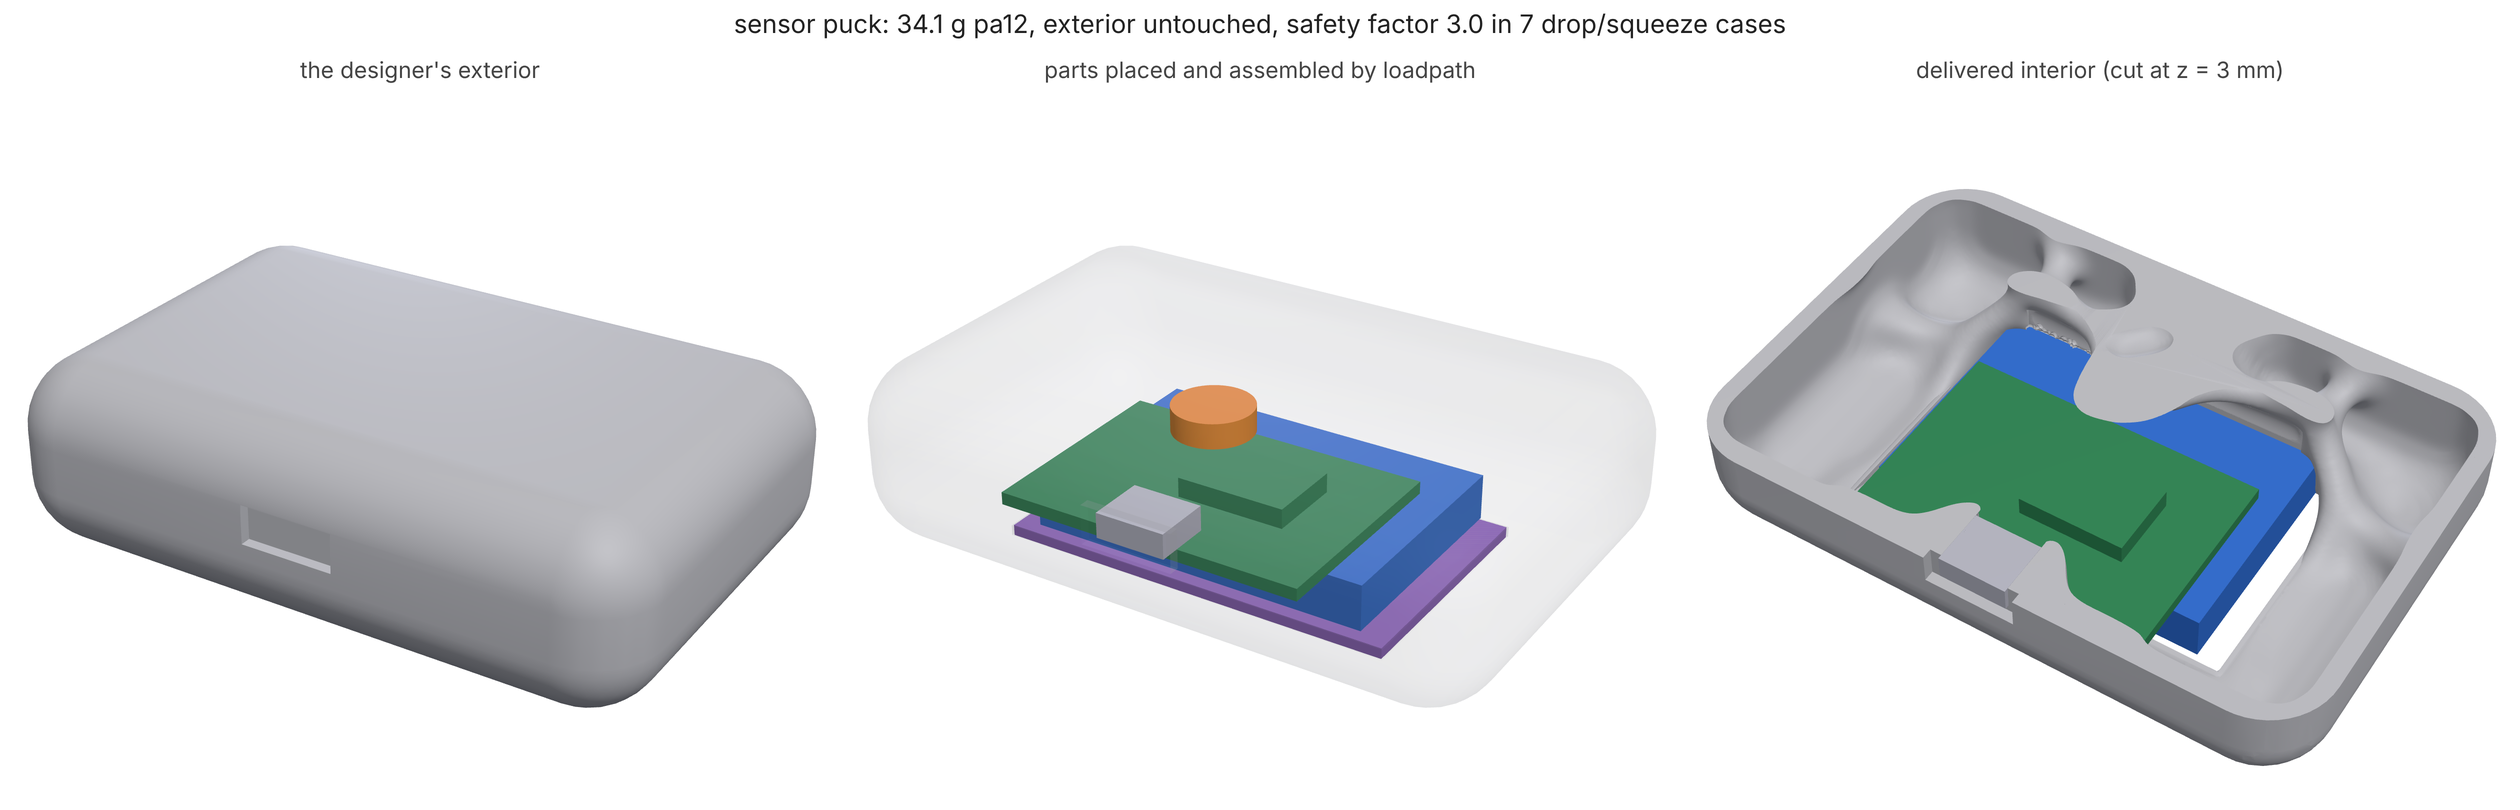
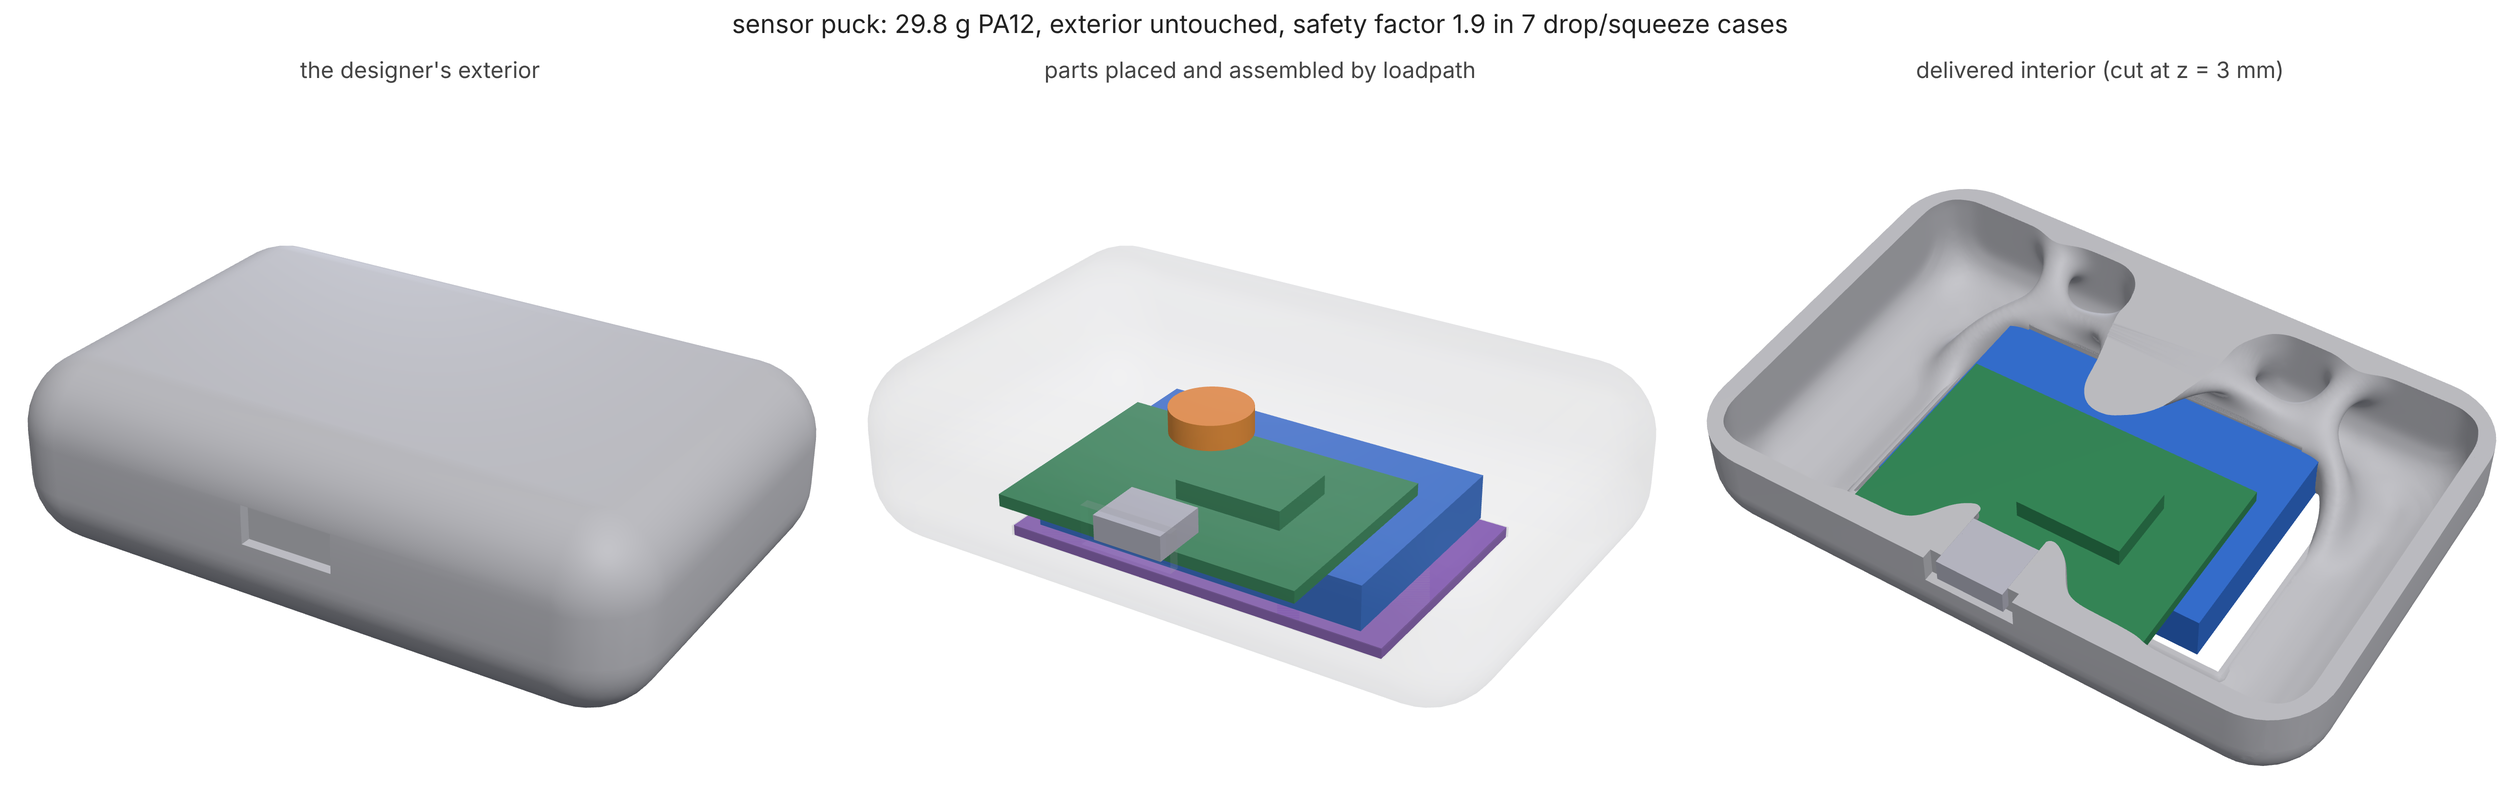
Enclosure docs: puck redesigned with the exact recess, checked on cut cells and tets
The USB-C now sits 0.31 mm back of the outer surface (0.3 asked); the
interior came out at 29.8 g PA12 (was 34.2 g), exterior 0.0 mm proud and
100% present, watertight, safety factor 1.9 on 130k cut cells and 4.2 on
567k 10-node tets against a goal of 1.5. examples/enclosure/tets.py runs
the tet re-check.

Claude-Session: https://claude.ai/code/session_01HFwANYaV5TaRui5ZhUpFuv

diff --git a/examples/enclosure/tets.py b/examples/enclosure/tets.py
@@ -1,0 +1,34 @@
+"""
+Re-check a delivered part on 10-node tets (crosscheck.py: fTetWild volume
+mesh, an independent solver from the cut-cell verify), every load case.
+
+    python examples/enclosure/tets.py out/enclosure
+"""
+from __future__ import annotations
+
+import json
+import os
+import sys
+
+HERE = os.path.dirname(os.path.abspath(__file__))
+sys.path.insert(0, os.path.join(HERE, "..", ".."))
+
+
+def main(argv=None):
+    import trimesh
+
+    from loadpath.crosscheck import crosscheck
+    from loadpath.spec import study_from_dict
+    d = (argv or sys.argv[1:])[0]
+    sp = [f for f in os.listdir(d) if f.endswith(".study.json")][0]
+    st = study_from_dict(json.load(open(os.path.join(d, sp))), base_dir=os.path.abspath(d))
+    part = os.path.basename(json.load(open(os.path.join(d, "checks.json")))["part"])
+    r = crosscheck(st, trimesh.load(os.path.join(d, "design", part), force="mesh"))
+    out = {k: r.get(k) for k in ("safetyFactor", "nodes", "elements", "seconds", "mesher", "backend")}
+    out["cases"] = [{k: c.get(k) for k in ("name", "peakStress", "safetyFactor", "deflection")} for c in r["cases"]]
+    json.dump(out, open(os.path.join(d, "tets.json"), "w"), indent=1, default=float)
+    print(json.dumps(out, default=float))
+
+
+if __name__ == "__main__":
+    main()

diff --git a/docs/ENCLOSURE.md b/docs/ENCLOSURE.md
@@ -140,9 +140,10 @@ Nothing about where the parts go is in the brief beyond the rules. On
 minutes:
 
 - **The board and its USB-C connector** turned so the connector's face
-  points out of the port and sits on the port's axis, 0.8 mm short of the
-  outer surface. The brief asked for 0.3 mm; the board's edge stops on
-  the rim around the mouth first.
+  points out of the port and sits on the port's axis, 0.31 mm short of the
+  outer surface (0.3 asked). The recess is the face's own stand-off; the
+  rest of the part keeps its margin from the walls, which the brief sets
+  to 0.3 mm for the board (0.5 elsewhere).
 - **The battery** went on the floor, straight over the door.
 - **The motor** went up against the ceiling, 0.5 mm under the skin and
   directly over the board (4.7 mm above it), so its wires stay short.
@@ -152,36 +153,39 @@ battery, door):
 
 - The motor and the battery drop straight in through the door.
 - The board, with the connector soldered on, comes out the way it went
-  in. It slides 11.3 mm along +y to free the connector from the port, then
-  drops out through the door. Its turn sits mid-way between the lengths
-  that clear both rims.
+  in. It slides 11.85 mm along +y to free the connector from the port,
+  then drops out through the door. Its turn sits mid-way between the
+  lengths that clear both rims.
 
 Every path is swept as a keep-out, and no keep-out overlaps the skin by any
 amount (`pathsIntoSkin` 0.0 mm³ for each part). The cradles went under the
 board (-y), the battery (+y) and the motor (+z).
 
 `run` then designed the interior for six 300 g drops, one onto each face,
-and a 150 N squeeze across the width. It delivered 43.9 g at 30% of the
-design space and 34.2 g at 15% before its 100-minute limit, out of an
-84.9 g design space. `checks.json` reads the 34.2 g part:
+and a 150 N squeeze across the width, out of an 84.9 g design space:
+43.8 g at 30% of it, 34.1 g at 15%, and 29.8 g at 8.2%, the lightest that
+passed before its 110-minute limit. `checks.json` reads the 29.8 g part
+on 130,703 cut cells at 0.42 mm, not on the optimizer's grid, and
+`examples/enclosure/tets.py` reads it again on 567k 10-node tets:
 
 | check | result |
 |---|---|
 | exterior proud of the designer's surface | 0.0 mm (34,034 samples) |
 | exterior surface still there | 100% |
 | watertight STL | yes |
-| material in any keep-out or way in | 0.000003 mm³ |
-| safety factor, worst case (squeeze-y) | 3.0 (goal 1.5) |
-| safety factor, drops -z / +z / -x / +x / -y / +y | 4.1 / 6.7 / 3.8 / 3.8 / 4.4 / 4.1 |
-| largest deflection (drop -x) | 0.22 mm |
-| buckling factor | 7.2 |
+| material in any keep-out or way in | 0.000005 mm³ |
+| safety factor, worst case: cut cells / tets | 1.9 (squeeze-y) / 4.2 (drop -x); goal 1.5 |
+| drops -z / +z / -x / +x / -y / +y, cut cells | 2.7 / 4.8 / 3.6 / 3.6 / 3.8 / 3.4 |
+| drops -z / +z / -x / +x / -y / +y, tets | 6.3 / 5.3 / 4.2 / 4.3 / 5.6 / 5.8 |
+| squeeze-y: cut cells / tets | 1.9 / 5.2 |
+| buckling factor | 6.7 |
 
-The table is read on 121,498 cut cells at 0.44 mm, not on the
-optimizer's grid. The run hit its time limit before the tet re-check, so
-the safety factors are cut-cell readings. A `loadpath verify` on tets
-would confirm them.
+The two readings agree that every case passes, but not on the margins.
+They are furthest apart on the squeeze, whose load goes in through small
+patches on the skin. The cut cells read the stress peak under a patch
+higher, so they are the reading to design to.
 
-The first run of this example found three bugs, and all of them are fixed:
+The first runs of this example found five bugs, and all of them are fixed:
 
 - **A rim notch.** The board's way out cleared the door's rim by 0.04 mm
   too little. Because a keep-out is cut from everything, that path cut
@@ -189,4 +193,8 @@ The first run of this example found three bugs, and all of them are fixed:
 - **Material back in the keep-outs.** The mesh cleanup's pinch filler put
   up to 18 mm³ back inside the ways in.
 - **A leaky STL.** 14 sliver edges that only an STL reader's weld exposes
-  made the file read as not watertight.
+  made the file read as not watertight. The pass that removes them first
+  crashed on an unwelded mesh, and now welds before it starts.
+- **A recess doubled by the margin.** An aligned connector kept its
+  0.5 mm margin from the exterior on top of the 0.3 mm recess asked, so it
+  stood 0.82 mm back.

diff --git a/README.md b/README.md
@@ -93,9 +93,10 @@ Where it is strongest:
   everything invisible around them for drops, squeezes and presses, with
   the exterior checked untouched on the delivered part
   ([docs/ENCLOSURE.md](docs/ENCLOSURE.md)): a generic sensor puck's
-  four parts placed from one brief and the interior delivered at 34 g of
-  PA12, safety factor 3.0 in six drops and a squeeze, the exterior 0.0 mm
-  proud and all of it still there. The designer's exterior is kept
+  four parts placed from one brief and the interior delivered at 30 g of
+  PA12, safety factor 1.9 on cut cells and 4.2 on tets (goal 1.5) in six
+  drops and a squeeze, the exterior 0.0 mm proud and all of it still
+  there. The designer's exterior is kept
   as a thin cosmetic skin, every component's assembly path kept clear, and
   the inside can be designed for how the product should feel too: a push pad that fires
   its switch at a chosen force anywhere on the touch area, a grip that gives
